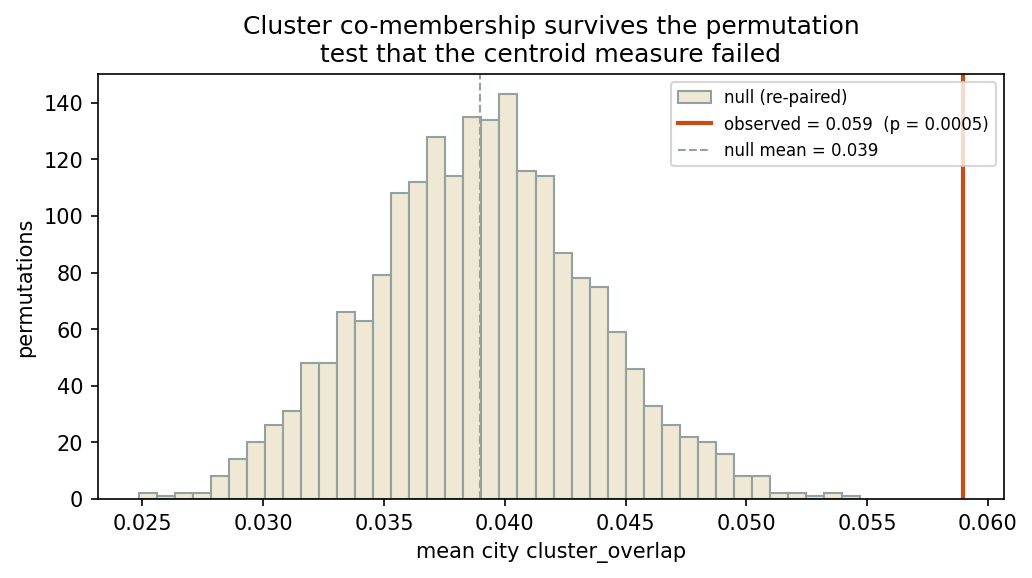
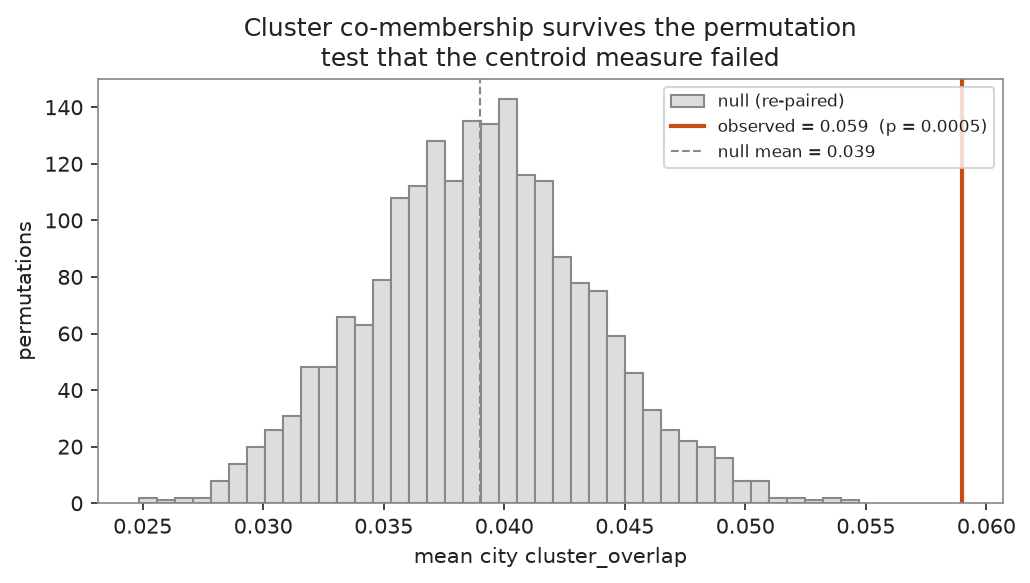
Pin figure scripts to the default matplotlib style and regenerate figures
scripts/12–15 each add plt.style.use("default") right after importing pyplot.
Without it, a style set earlier in the session (or a user matplotlibrc) could
leak in and change fonts/colors, so the same script produced different-looking
figures depending on environment. Pinning the default style makes the figures
reproducible run-to-run.

Regenerates the affected PNGs (activity_by_year, cc_city_leaderboard, the
overlap/permutation/power diagnostics, etc.) so the committed images match the
pinned style.

diff --git a/scripts/14_fig_pipeline_concept.py b/scripts/14_fig_pipeline_concept.py
@@ -11,6 +11,7 @@ warnings.filterwarnings("ignore")
 import matplotlib
 matplotlib.use("Agg")
 import matplotlib.pyplot as plt
+plt.style.use("default")
 import matplotlib.patches as mpatches
 from matplotlib.patches import FancyArrowPatch, FancyBboxPatch
 import numpy as np

diff --git a/scripts/13_cc_heatmap.py b/scripts/13_cc_heatmap.py
@@ -15,6 +15,7 @@ import numpy as np
 import matplotlib
 matplotlib.use("Agg")
 import matplotlib.pyplot as plt
+plt.style.use("default")
 import matplotlib.patches as mpatches
 from matplotlib.colors import ListedColormap
 import matplotlib.ticker as ticker

diff --git a/scripts/15_fig_provenance.py b/scripts/15_fig_provenance.py
@@ -10,6 +10,7 @@ warnings.filterwarnings("ignore")
 import matplotlib
 matplotlib.use("Agg")
 import matplotlib.pyplot as plt
+plt.style.use("default")
 import matplotlib.patches as mpatches
 from matplotlib.patches import FancyBboxPatch
 

diff --git a/scripts/12_world_map.py b/scripts/12_world_map.py
@@ -14,6 +14,7 @@ import geodatasets
 import matplotlib
 matplotlib.use("Agg")
 import matplotlib.pyplot as plt
+plt.style.use("default")
 import matplotlib.patches as mpatches
 import numpy as np
 
